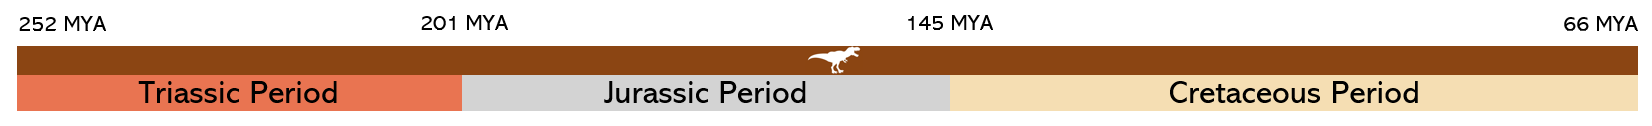
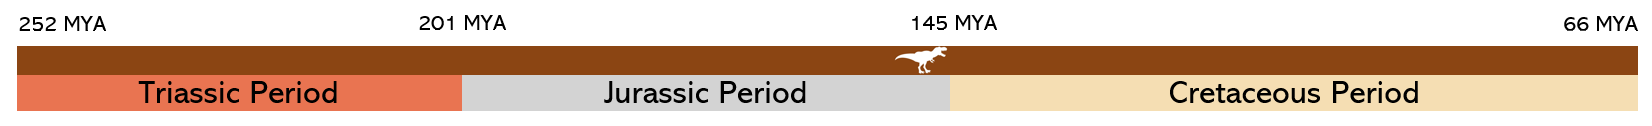
gitignore

Changed region(s): [[0.4939, 0.381, 0.5866, 0.5952], [0.5248, 0.119, 0.6174, 0.2381], [0.247, 0.119, 0.3087, 0.2381]]

diff --git a/code/timeline/timelineDino.py b/code/timeline/timelineDino.py
@@ -13,7 +13,7 @@ bar_color = (260, 260, 260)  # (255, 0, 0)
 ###############################################################################
 
 # Define the start and end years
-start_year = 155
+start_year = 145
 dino_name = "diplodocus"
 
 ###############################################################################
